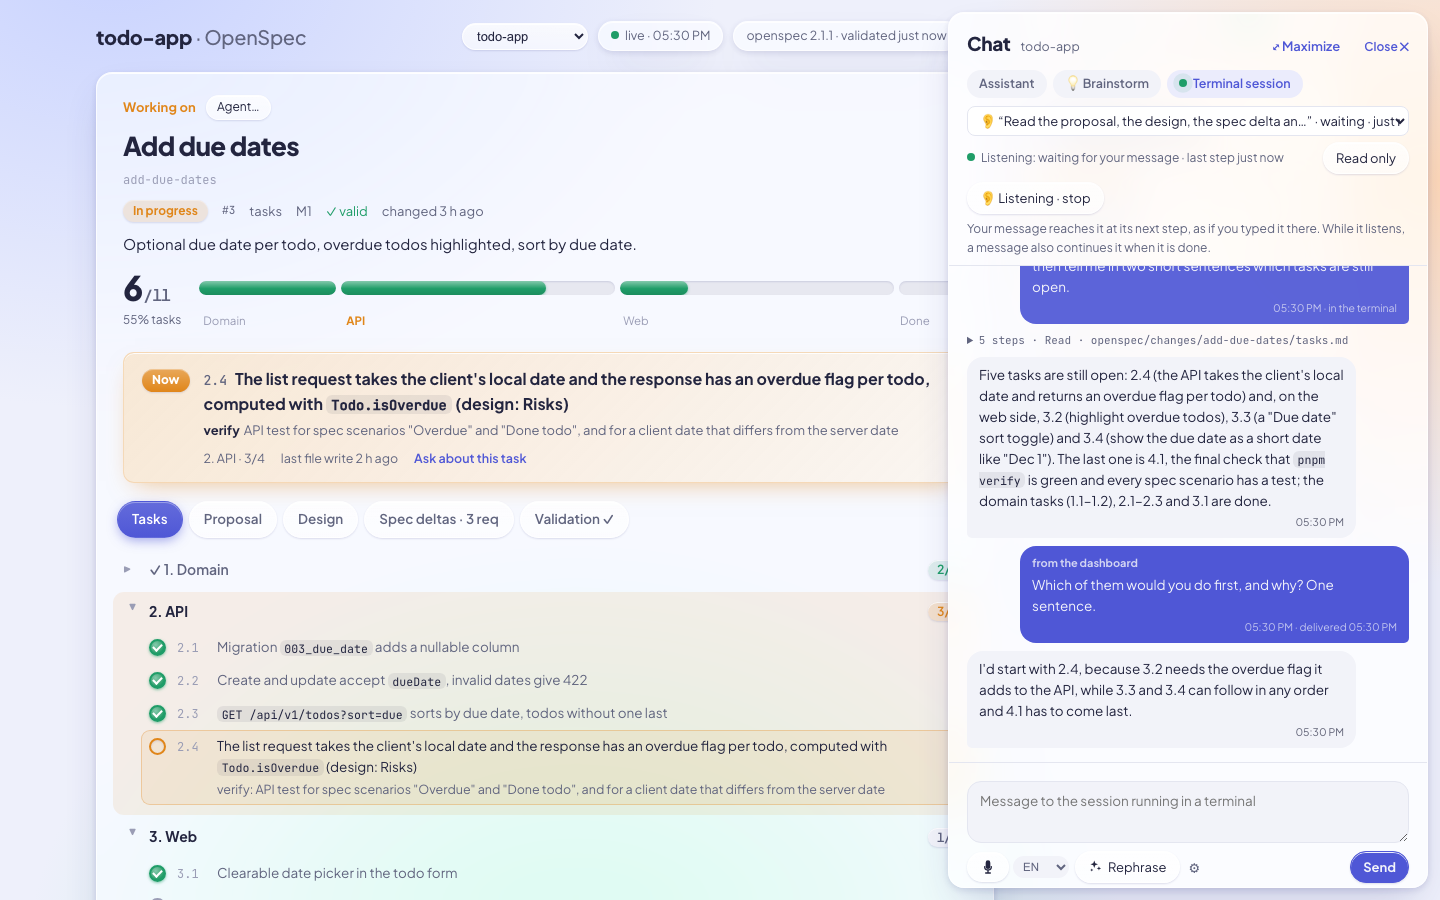
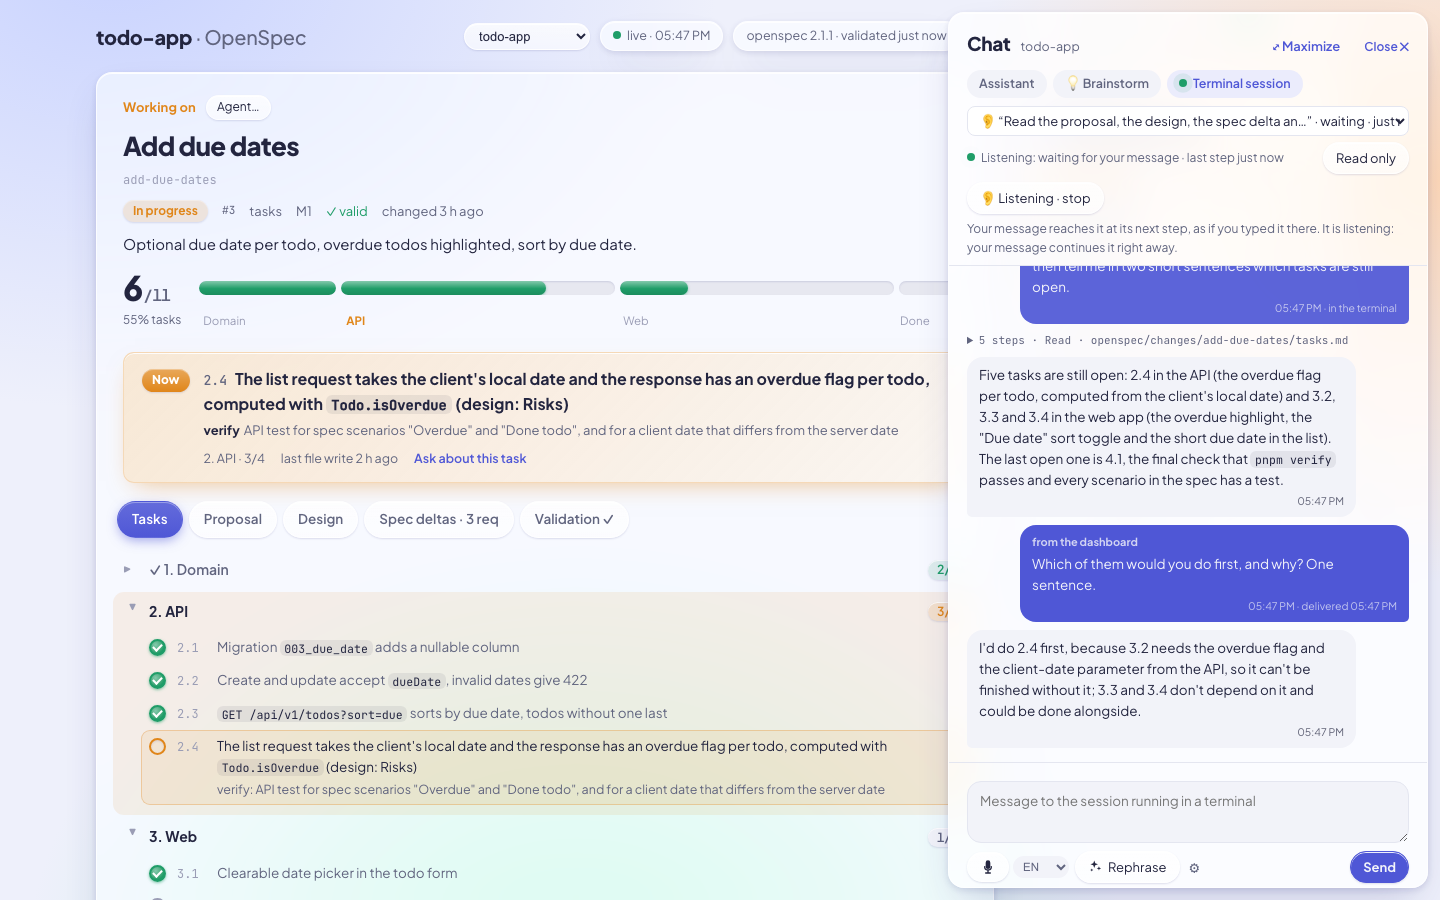
Dashboard: write to a session in macOS Terminal by typing into its tab
No hook needed, and it reaches a session that waits at its prompt (where no hook runs). The server finds
the session's tty, checks that Claude Code is in the foreground there and not asking something, and types
the message with AppleScript, sent with Return. Waiting sessions are shown as waiting (Claude Code's own
idle/busy), and a queued hook message says what it waits for.

diff --git a/tools/openspec-dashboard/index.html b/tools/openspec-dashboard/index.html
@@ -3172,13 +3172,15 @@ async function agentPost(action, body) {
 }
 const recentExternal = () => (ag.view?.sessions ?? []).filter((x) => !x.ended && !x.dashboardJob && Date.now() - x.t < 15 * 60e3);
 // ---- joining a session that runs in a terminal (or an IDE): pick it, see its transcript live (read-only), write to it
+const typedHere = new Set(); // messages typed into a session's terminal from this page (marked in its transcript)
 const termLog = new Map(); // session id -> { entries, next (byte offset), cut, err }
 const termSessions = () => (ag.view?.sessions ?? []).filter((x) => !x.dashboardJob && x.transcript).sort((a, b) => (a.ended - b.ended) || b.t - a.t); // running first, ended ones stay readable
-const termLabel = (x) => `${x.hookless && !x.ended ? '◌ ' : x.ended ? '' : x.listening || x.listen ? '👂 ' : x.waiting ? '' : '● '}${x.prompt ? `“${x.prompt.replace(/\s+/g, ' ').slice(0, 48)}${x.prompt.length > 48 ? '…' : ''}”` : 'session'} · ${x.ended ? 'ended' : x.waiting ? 'waiting' : 'working'} · ${ago(x.t)} · ${x.sessionId.slice(0, 8)}${x.hookless && !x.ended ? ' · read-only' : ''}`;
+const termLabel = (x) => `${x.hookless && !x.ended && !x.typeable ? '◌ ' : x.ended ? '' : x.listening || x.listen ? '👂 ' : x.waiting ? '' : '● '}${x.prompt ? `“${x.prompt.replace(/\s+/g, ' ').slice(0, 48)}${x.prompt.length > 48 ? '…' : ''}”` : 'session'} · ${x.ended ? 'ended' : x.waiting ? 'waiting' : 'working'} · ${ago(x.t)} · ${x.sessionId.slice(0, 8)}${x.hookless && !x.ended && !x.typeable ? ' · read-only' : ''}`;
 function termThreadHtml(sid) {
   const T = termLog.get(sid);
   if (!T) return '<div class="ag-empty">Loading the session…</div>';
   const xo = (ag.view?.elsewhere ?? []).find((y) => y.sessionId === sid && !y.projectId); // session only: its messages are in its folder's inbox
+  const sx = xo ?? termSessions().find((y) => y.sessionId === sid), waitingNow = sx?.waiting && !sx?.listening;
   const mine = (xo ? xo.messages ?? [] : (ag.view?.messages ?? []).filter((m) => m.session === sid)).map((m) => ({ t: m.t, kind: 'mine', m, folder: xo?.folder }));
   const items = [...T.entries.filter((e) => !(e.kind === 'user' && /from the OpenSpec dashboard/.test(e.text))), ...mine].sort((a, b) => (a.t ?? 0) - (b.t ?? 0));
   const out = T.cut ? ['<div class="ag-note" style="text-align:center">Earlier parts of this session are not shown.</div>'] : [];
@@ -3187,8 +3189,8 @@ function termThreadHtml(sid) {
   for (const e of items) {
     if (e.kind === 'tool' || e.kind === 'error') { steps.push(e); continue; }
     flush();
-    if (e.kind === 'mine') out.push(`<div class="msg me"><span class="ic-chip">from the dashboard</span>${esc(e.m.text)}<span class="meta">${hhmm(e.m.t)} · ${e.m.state === 'queued' ? `queued${e.m.state === 'queued' ? ` · <button class="link" type="button" data-ag-cancel="${esc(e.m.id)}" ${e.folder ? `data-folder="${esc(e.folder)}"` : ''}>cancel</button>` : ''}` : 'delivered ' + hhmm(e.m.deliveredAt)}</span></div>`);
-    else if (e.kind === 'user') out.push(`<div class="msg me term-user">${esc(e.text)}<span class="meta">${e.t ? hhmm(e.t) : ''} · in the terminal</span></div>`);
+    if (e.kind === 'mine') out.push(`<div class="msg me"><span class="ic-chip">from the dashboard</span>${esc(e.m.text)}<span class="meta">${hhmm(e.m.t)} · ${e.m.state === 'queued' ? `${waitingNow ? 'queued: arrives with the next prompt typed in its terminal' : 'queued: arrives with its next step'}${e.m.state === 'queued' ? ` · <button class="link" type="button" data-ag-cancel="${esc(e.m.id)}" ${e.folder ? `data-folder="${esc(e.folder)}"` : ''}>cancel</button>` : ''}` : 'delivered ' + hhmm(e.m.deliveredAt)}</span></div>`);
+    else if (e.kind === 'user') out.push(`<div class="msg me term-user">${typedHere.has(e.text.trim()) ? '<span class="ic-chip">typed from the dashboard</span>' : ''}${esc(e.text)}<span class="meta">${e.t ? hhmm(e.t) : ''} · in the terminal</span></div>`);
     else out.push(`<div class="msg them ${e.sub ? 'sub' : ''}"><div class="md">${md(e.text)}</div><span class="meta">${e.t ? hhmm(e.t) : ''}</span></div>`);
   }
   flush();
@@ -3590,21 +3592,22 @@ function barHtml(c) {
     const xs = x ?? xo;
     const top = xo ? `<div class="ag-row ag-target">${pick}</div><div class="term-only"><b>Session only</b> <code>${esc(xo.display)}</code> <span class="muted">· not followed, so there is no board, roadmap or specs for it, only this session</span>
       ${xo.openspec ? '<button class="link" type="button" data-ag-adopt="follow">Follow it as a project</button>' : '<button class="link" type="button" data-ag-adopt="onboard">Onboard it as a project…</button>'}</div>` : `<div class="ag-row ag-target">${pick}</div>`;
-    if (xo?.hookless) return `${top}<div class="ag-note">${xo.waiting ? '<span class="dot"></span>Waiting for input' : '<span class="dot on"></span>Working'} · last activity ${ago(xo.t)} · read-only: this session runs without the dashboard's hook</div>
+    if (xo?.hookless && !xo.typeable) return `${top}<div class="ag-note">${xo.waiting ? '<span class="dot"></span>Waiting for input' : '<span class="dot on"></span>Working'} · last activity ${ago(xo.t)} · read-only: this session runs without the dashboard's hook</div>
       ${xo.hooks ? `<div class="ag-note">The hook is set up in this folder, but the session started before it: restart it to write to it (<code>/exit</code>, then <code>claude --resume ${esc(xo.sessionId)}</code>).</div>` : setup('To write to it, set up the hook in its folder', xo)}`;
     if (!xs) return `<div class="ag-row ag-target">${pick}</div>${ag.view?.hooks
       ? `<div class="ag-note">${ss.length ? 'Pick a session to join it: you see what it does, live, and can write to it.' : ''} ${ext ? `<span class="dot on"></span>Active · last step ${ago(ext.t)}${ext.tool ? ` (${esc(ext.tool)})` : ''}` : '<span class="dot"></span>No session seen in the last 15 minutes; messages wait until one takes a step.'}</div>`
       : `<div class="ag-note">${ss.length ? 'Pick a session to follow it live, read-only.' : 'Sessions you start in this project (in a terminal or an IDE) show up here.'}</div>${setup('Write to a session as if you typed it there')}`}`;
     const x2 = xs, cur = xs.elsewhere ? xs.hooksCurrent : ag.view.hooksCurrent;
     if (x?.ended) return `<div class="ag-row ag-target">${pick}</div><div class="ag-note"><span class="dot"></span>Ended ${ago(x.t)}. Continue it in a terminal: <code>claude --resume ${esc(x.sessionId)}</code></div>`;
-    if (x?.hookless) return `<div class="ag-row ag-target">${pick}</div><div class="ag-note">${x.waiting ? '<span class="dot"></span>Waiting for input in the terminal' : '<span class="dot on"></span>Working'} · last activity ${ago(x.t)} · read-only: this session runs without the dashboard's hook</div>
+    if (x?.hookless && !x.typeable) return `<div class="ag-row ag-target">${pick}</div><div class="ag-note">${x.waiting ? '<span class="dot"></span>Waiting for input in the terminal' : '<span class="dot on"></span>Working'} · last activity ${ago(x.t)} · read-only: this session runs without the dashboard's hook</div>
       ${ag.view?.hooks ? `<div class="ag-note">The hook is set up, but this session started before it: restart it to write to it (<code>/exit</code>, then <code>claude --resume ${esc(x.sessionId)}</code>).</div>` : setup('To write to it, set up the hook')}`;
     const state = x2.listening ? '<span class="dot on"></span>Listening: waiting for your message' : x2.waiting ? '<span class="dot"></span>Waiting for input in the terminal' : '<span class="dot on"></span>Working';
     return `${top}
       <div class="ag-row"><span class="ag-note">${state} · last step ${ago(x2.t)}${x2.tool && !x2.waiting ? ` (${esc(x2.tool)})` : ''}</span>
         <button class="btn" type="button" data-ag-term-write aria-pressed="${ag.termWrite}" style="margin-left:auto" title="${ag.termWrite ? 'Back to read-only' : 'Write to this session as if you typed it there'}">${ag.termWrite ? 'Read only' : '✎ Write to it'}</button>
-        ${ag.termWrite && cur ? `<button class="btn" type="button" data-ag-term-listen aria-pressed="${!!x2.listen}" title="When it is about to stop, it waits for your message instead (the terminal shows the hook running; Esc there takes the session back)">${x2.listen ? '👂 Listening · stop' : '👂 Keep it listening'}</button>` : ''}</div>
-      ${ag.termWrite ? `<div class="ag-note">Your message reaches it at its next step, as if you typed it there. ${x2.listen ? 'While it listens, a message also continues it when it is done.' : 'When it waits for input, the message arrives once you type there, or turn on <b>Keep it listening</b>.'}${cur ? '' : ` To let it listen, the hook needs an update: <button class="link" type="button" data-ag-hook ${xs.elsewhere ? `data-folder="${esc(xs.folder)}"` : ''}>Update it</button> (then restart the session)`}</div>` : '<div class="ag-note">Read-only: you see what the session does, live.</div>'}
+        ${ag.termWrite && cur && !x2.hookless && !x2.typeable ? `<button class="btn" type="button" data-ag-term-listen aria-pressed="${!!x2.listen}" title="When it is about to stop, it waits for your message instead (the terminal shows the hook running; Esc there takes the session back)">${x2.listen ? '👂 Listening · stop' : '👂 Keep it listening'}</button>` : ''}</div>
+      ${ag.termWrite && x2.typeable ? `<div class="ag-note">Your message is typed into its Terminal tab and sent with Return, exactly as if you typed it there, also while it waits for input (one line; not while it asks you something there).</div>`
+      : ag.termWrite ? `<div class="ag-note">Your message reaches it at its next step, as if you typed it there. ${x2.listening ? 'It is listening: your message continues it right away.' : x2.waiting ? `It is waiting for input in the terminal, so it takes no step: the message arrives with the next prompt typed there.${x2.listen ? ' After that answer it listens and takes your messages directly.' : ' <b>Keep it listening</b> lets it take your messages directly after its next answer.'}` : x2.listen ? 'When it is done, it waits for your messages instead of stopping.' : '<b>Keep it listening</b> lets it wait for your messages when it is done, instead of stopping.'}${cur ? '' : ` To let it listen, the hook needs an update: <button class="link" type="button" data-ag-hook ${xs.elsewhere ? `data-folder="${esc(xs.folder)}"` : ''}>Update it</button> (then restart the session)`}</div>` : '<div class="ag-note">Read-only: you see what the session does, live.</div>'}
       ${termLog.get(x2.sessionId)?.err ? `<div class="ag-note warn">✕ ${esc(termLog.get(x2.sessionId).err)}</div>` : ''}`;
   }
   if (c.brainstorm) {
@@ -3640,7 +3643,7 @@ function renderAgentLive() {
     $('ag-chips').innerHTML = list.map((x) => `<button type="button" class="chip" role="tab" data-ag-convo="${esc(x.id)}" aria-selected="${x.id === c?.id}">${x.live ? '<span class="dot on"></span>' : ''}${x.session ? 'Session · ' : ''}${esc(x.label)}</button>`).join('');
     morphHtml($('ag-bar'), barHtml(c)); // morph: an open session picker stays open
     const tx = c?.terminal && ag.term ? termSessions().find((y) => y.sessionId === ag.term) ?? (ag.view?.elsewhere ?? []).find((y) => y.sessionId === ag.term && !y.projectId) : null;
-    const ro = c?.terminal && (ag.term ? (!tx || !ag.termWrite || tx.ended || tx.hookless) : !ag.view?.hooks); // a joined session is read-only until "Write to it"; an ended one or one without the hook stays so
+    const ro = c?.terminal && (ag.term ? (!tx || !ag.termWrite || tx.ended || (tx.hookless && !tx.typeable)) : !ag.view?.hooks); // a joined session is read-only until "Write to it"; an ended one or one without the hook stays so
     for (const el of document.querySelectorAll('#agent .ag-compose, #agent #ag-suggest')) el.hidden = !!ro;
     const th = $('ag-thread');
     const atEnd = th.scrollHeight - th.scrollTop - th.clientHeight < 60;
@@ -3682,7 +3685,12 @@ async function agentSend(force = false, direct = null) {
     if (ag.panel === 'chat') {
       if (!text) return;
       const c = conversations().find((x) => x.id === ag.convo);
-      if (c?.terminal) { const xo = (ag.view?.elsewhere ?? []).find((y) => y.sessionId === ag.term && !y.projectId); await agentPost('message', { text, to: 'inbox', session: ag.term || undefined, ...(xo ? { folder: xo.folder } : {}) }); }
+      if (c?.terminal) {
+        const xo = (ag.view?.elsewhere ?? []).find((y) => y.sessionId === ag.term && !y.projectId);
+        const tx = termSessions().find((y) => y.sessionId === ag.term) ?? xo;
+        if (tx?.typeable) { await agentPost('type', { session: ag.term, text }); typedHere.add(text.replace(/\s*\n\s*/g, ' ').trim()); ag.stick = true; termPoll(true); }
+        else await agentPost('message', { text, to: 'inbox', session: ag.term || undefined, ...(xo ? { folder: xo.folder } : {}) });
+      }
       else if (c?.session) await agentPost('message', { change: c.last.change, text, job: c.last.id });
       else await agentPost('chat', { text, mode: c?.brainstorm ? 'brainstorm' : 'assistant' });
       if (!direct) { ag.drafts['chat-' + ag.convo] = ''; ta.value = ''; rx.quote = null; showQuoteChip(); }

diff --git a/docs/user-guide.md b/docs/user-guide.md
@@ -245,7 +245,16 @@ something; ended ones stay in the list for 12 hours. Pick one to join it: you se
 Claude's replies and its steps).
 
 Following a session works without any setup: the dashboard finds the running sessions in Claude Code's own records
-(`~/.claude/sessions`) and reads their transcripts. Writing to a session needs the dashboard's hook in the project:
+(`~/.claude/sessions`) and reads their transcripts.
+
+**Writing to a session in macOS Terminal needs no setup either.** **✎ Write to it** types your message into the
+session's Terminal tab and sends it with Return, exactly as if you typed it there, also while the session waits at
+its prompt; the transcript marks it as *typed from the dashboard*. It goes as one line (line breaks become spaces).
+The dashboard only types while Claude Code itself is in the foreground of that tab (never into a shell), and not
+while the session asks you something there, such as a permission, since Return would answer it. Terminal may ask
+once whether the dashboard may control it.
+
+For sessions elsewhere (an IDE, another terminal app), writing needs the dashboard's hook in the project:
 **Set up the hook** in the panel adds it (a few lines in `.claude/settings.local.json`, which is kept out of git
 through `.git/info/exclude`; or run `node tools/openspec-dashboard/agent-hook.mjs install <project>`). Sessions
 started after that can be written to; one that runs already is marked **◌ … read-only** in the list until you
@@ -261,10 +270,12 @@ session of the project.
 
 ![A session in a folder the dashboard does not follow, read-only, with the offer to onboard it](images/dashboard-terminal-session-only.png)
 
-A session with the hook is read-only until you press **✎ Write to it**: then your message reaches the session as if you typed it there, at its next step. A session that
-waits for input in the terminal only takes it once you type there, unless you turn on **👂 Keep it listening**:
-then, when it is done, it waits for your message (the terminal shows the hook running; `Esc` there takes it back),
-and each of your messages continues it. **👂 Listening · stop** lets it finish. **Any session** sends to whichever
+With the hook, a session is read-only until you press **✎ Write to it**: then your message reaches the session as if you typed it there, at its next step. A session that
+waits for input in the terminal takes no steps, so your message arrives with the next prompt typed there (the
+message says so while it is queued). **👂 Keep it listening** changes that from the session's next answer on: when
+it is done, it waits for your message instead of stopping (the terminal shows the hook running; `Esc` there takes it
+back), and each of your messages continues it. A session that is already waiting needs one prompt in its terminal
+first. **👂 Listening · stop** lets it finish. **Any session** sends to whichever
 session takes the next step.
 
 ![Joined a session running in a terminal: its prompt, steps and answer, and a question sent from the dashboard](images/dashboard-terminal-session.png)

diff --git a/tools/openspec-dashboard/README.md b/tools/openspec-dashboard/README.md
@@ -254,7 +254,10 @@ Started with `--agent`, the dashboard talks to Claude Code in two places:
     Your messages go straight to it; you can end it after the current turn or stop it, and a message to an ended
     session continues it. `claude --resume <session-id>` takes it over in a terminal.
   - **Terminal session** (also **⌨** in the header, with the number of running sessions): join a session running
-    elsewhere (a terminal, an IDE). The drop-down lists the project's sessions of the last 12 hours: the ones the
+    elsewhere (a terminal, an IDE). On macOS, a session running in Terminal is written to by typing: the server finds
+    its tty (`ps`), checks that Claude Code is the foreground process there and that it is not asking something (a
+    permission prompt in the tab's contents), and types the message with AppleScript (`do script … in` the tab with
+    that tty), one line, sent with Return; no hook needed, and it works while the session waits at its prompt. The drop-down lists the project's sessions of the last 12 hours: the ones the
     hook below reports, and also those it has not seen (no hook, or started before it), found in Claude Code's own
     records: `~/.claude/sessions/<pid>.json` (session id, folder, idle or busy; the process must still run) for the
     running ones and the interactive transcripts in `~/.claude/projects/<folder>/` for the ended ones (`claude -p`
@@ -369,7 +372,10 @@ shows prompts, replies, steps and errors; Claude Code's own messages (`<task-not
 out. **Keep it listening** writes `listen/<session>.json` in the inbox; while it exists, the Stop hook waits (up to
 its timeout of 30 minutes, which `install` sets) for a message for that session and hands it over as the reason to
 continue. A hook installed before this has a 10-second Stop timeout; the panel asks to run `install` again. Queued
-messages can be cancelled until they are delivered.
+messages can be cancelled until they are delivered. No hook runs while a session waits at its prompt (also right
+after it started or was resumed), so a message for it waits for the next prompt typed there; listening only takes
+effect at the end of its next answer. Whether a session works or waits comes from Claude Code's own record
+(`~/.claude/sessions/<pid>.json`: `idle`, `busy`) when there is one, else from the hook's last event.
 
 **Sessions started from the dashboard** run without anyone to answer permission prompts, so prompts are declined.
 Allow what the ticket workflow needs (the quality gate, `openspec`, `git add`/`git commit`) in the project's

diff --git a/README.md b/README.md
@@ -216,8 +216,8 @@ What makes it more than a status page:
   installed on the host. Projects you are done with can be **archived** or **unfollowed**, so they cost nothing
   while they rest.
 - **Join a session running in a terminal** (⌨ in the header): pick it from a list, follow what it does live
-  (read-only by default, no setup needed), and write to it as if you typed there once the hook is set up (one
-  click); it can even wait for your next message when it is done. Sessions in other projects switch there; one in
+  (read-only by default, no setup needed), and write to it: in macOS Terminal the message is typed right into the
+  session, also while it waits, without any setup; elsewhere through a hook (one click); it can even wait for your next message when it is done. Sessions in other projects switch there; one in
   a folder that is not followed yet can be followed on its own and onboarded with one click.
 - **Git history** of the project: the commits with a graph of branches, tags and remote branches, and each commit's
   message, files and diff, read-only; **openspec/ only** shows just the commits that changed the specs.
